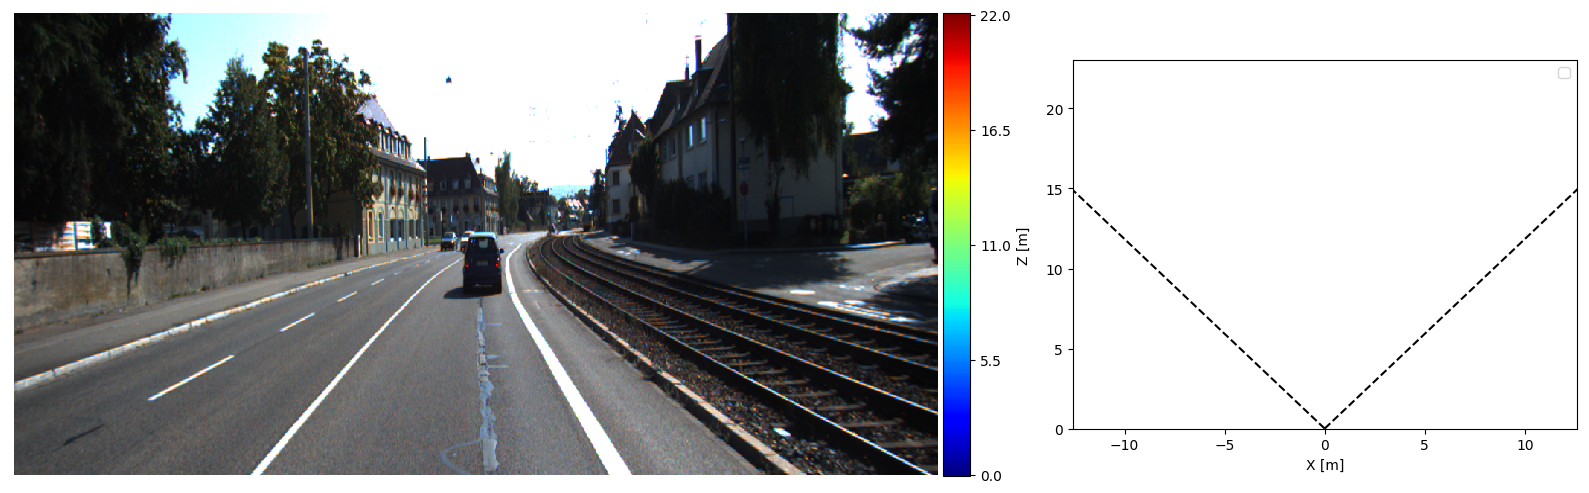
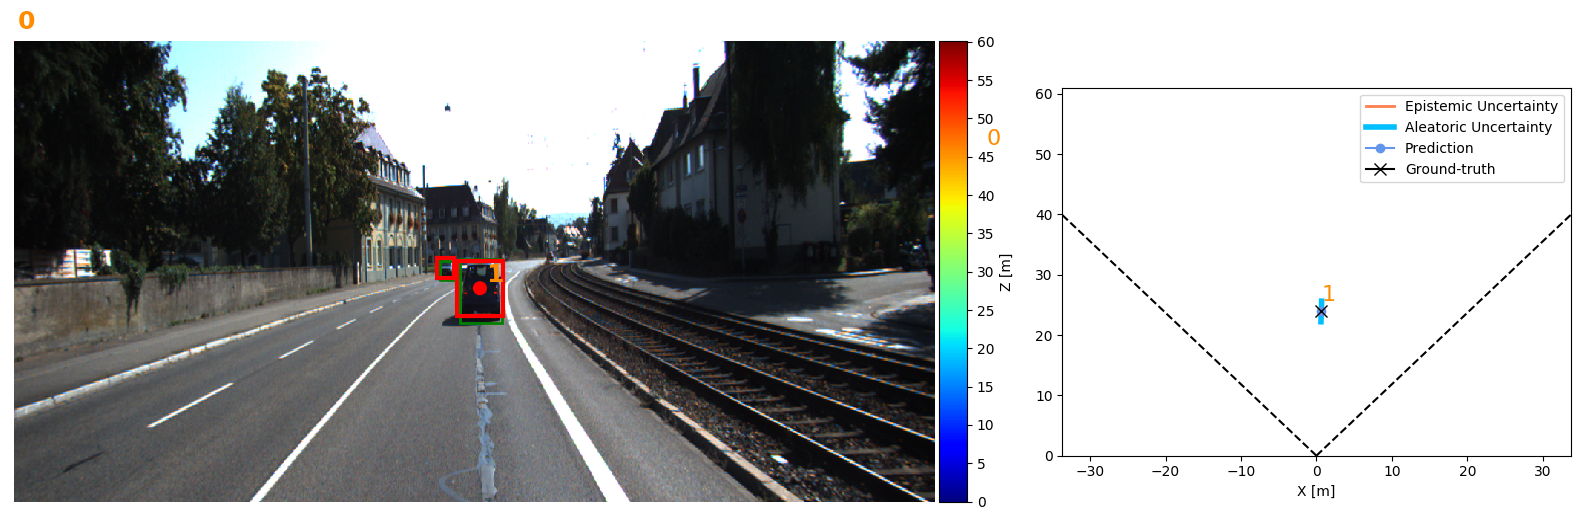
small fixes for visu

diff --git a/monstereo/visuals/printer.py b/monstereo/visuals/printer.py
@@ -43,7 +43,7 @@ class Printer:
 
         # Define variables of the class to change for every image
         self.mpl_im0 = self.stds_ale = self.stds_epi = self.xx_gt = self.zz_gt = self.xx_pred = self.zz_pred =\
-            self.dds_real = self.uv_centers = self.uv_shoulders = self.uv_kps = self.boxes = self.boxes_gt = \
+            self.dds_real = self.uv_centers = self.uv_shoulders =  self.uv_kps = self.boxes = self.boxes_gt = \
             self.uv_camera = self.radius = self.auxs = None
 
     def _process_results(self, dic_ann):
@@ -62,9 +62,19 @@ class Printer:
 
         self.dds_real = dic_ann['dds_real']
         self.uv_shoulders = dic_ann['uv_shoulders']
+        self.uv_centers = dic_ann['uv_centers']
         self.boxes = dic_ann['boxes']
         self.boxes_gt = dic_ann['boxes_gt']
 
+        print("shoulder",self.uv_shoulders)
+        print("centers",self.uv_centers)
+        
+        print("BOXES",self.boxes)
+        print("BOXES_GT",self.boxes_gt)
+
+        print("XX_GT", self.xx_gt)
+        print("XX_PRED", self.xx_pred)
+        #print("keypoints",dic_ann['keypoints'])
         self.uv_camera = (int(self.im.size[0] / 2), self.im.size[1])
         self.radius = 11 / 1600 * self.width
         if dic_ann['aux']:
@@ -147,6 +157,8 @@ class Printer:
         # Process the annotation dictionary of monoloco
         self._process_results(dic_out)
 
+        print("ZZ_GT", self.zz_gt)
+
         # whether to include instances that don't match the ground-truth
         iterator = range(len(self.zz_pred)) if show_all else range(len(self.zz_gt))
         if not iterator:
@@ -160,12 +172,13 @@ class Printer:
             if any(xx in self.output_types for xx in ['front', 'combined']) and self.zz_pred[idx] > 0:
 
                 color = self.cmap((self.zz_pred[idx] % self.z_max) / self.z_max)
-                self.draw_circle(axes, self.uv_shoulders[idx], color)
+                color = 'red'
+                self.draw_circle(axes, self.uv_centers[idx], color)
                 if draw_box:
                     self.draw_boxes(axes, idx, color)
 
                 if draw_text:
-                    self.draw_text_front(axes, self.uv_shoulders[idx], num)
+                    self.draw_text_front(axes, self.uv_centers[idx], num)
                     num += 1
 
         # Draw the bird figure

diff --git a/monstereo/predict.py b/monstereo/predict.py
@@ -181,10 +181,15 @@ def factory_outputs(args, images_outputs, output_path, pifpaf_outputs, dic_out=N
                 skeleton_painter.keypoints(ax, pifpaf_out, scores=scores)
 
     else:
-        if any((xx in args.output_types for xx in ['front', 'bird', 'combined'])):
+        if any((xx in args.output_types for xx in ['front', 'bird', 'combined', 'combined_pifpaf'])):
+            
+
+            
             epistemic = False
             if args.n_dropout > 0:
                 epistemic = True
+
+            
 
             if dic_out['boxes']:  # Only print in case of detections
                 printer = Printer(images_outputs[1], output_path, kk, output_types=args.output_types

diff --git a/monstereo/utils/camera.py b/monstereo/utils/camera.py
@@ -81,6 +81,8 @@ def get_keypoints(keypoints, mode):
 
     kps_in = keypoints[:, 0:2, :]  # (m, 2, 17) #Only take the kepoints positions and forget the confidence metric
     if mode == 'center':
+        kps_in = keypoints[:, 0:2, (keypoints[:,2, :]>0)[0]]    #Remove the non detected keypoints
+        print("$KPS_IN", kps_in)
         kps_max, _ = kps_in.max(2)  # returns value, indices
         kps_min, _ = kps_in.min(2)
         kps_out = (kps_max - kps_min) / 2 + kps_min   # (m, 2) as keepdims is False

diff --git a/monstereo/network/net.py b/monstereo/network/net.py
@@ -231,6 +231,7 @@ class Loco:
             dic_out['uv_centers'].append(uv_center)
             dic_out['uv_shoulders'].append(uv_shoulder)
             dic_out['uv_heads'].append(uv_head)
+            dic_out['keypoints'].append(kps)
 
             # For MonStereo / MonoLoco++
             try:
